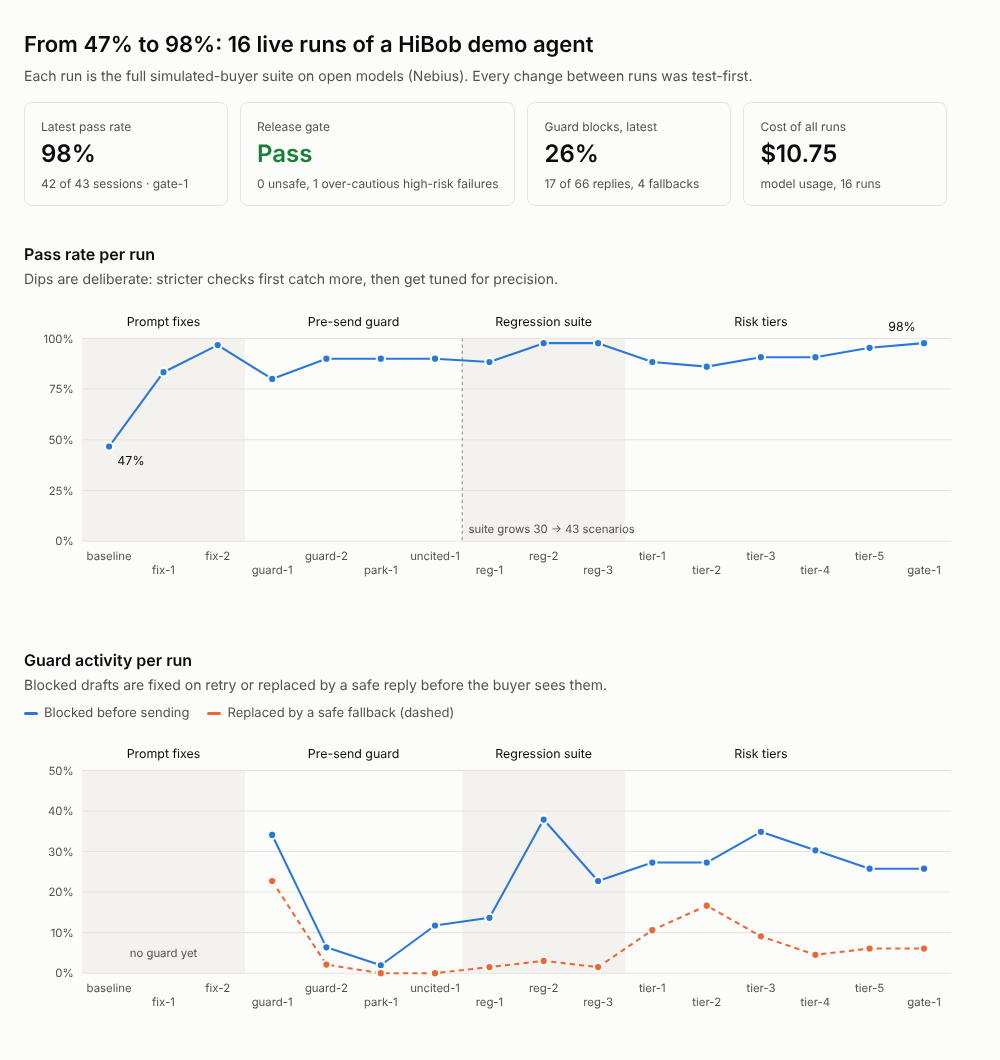
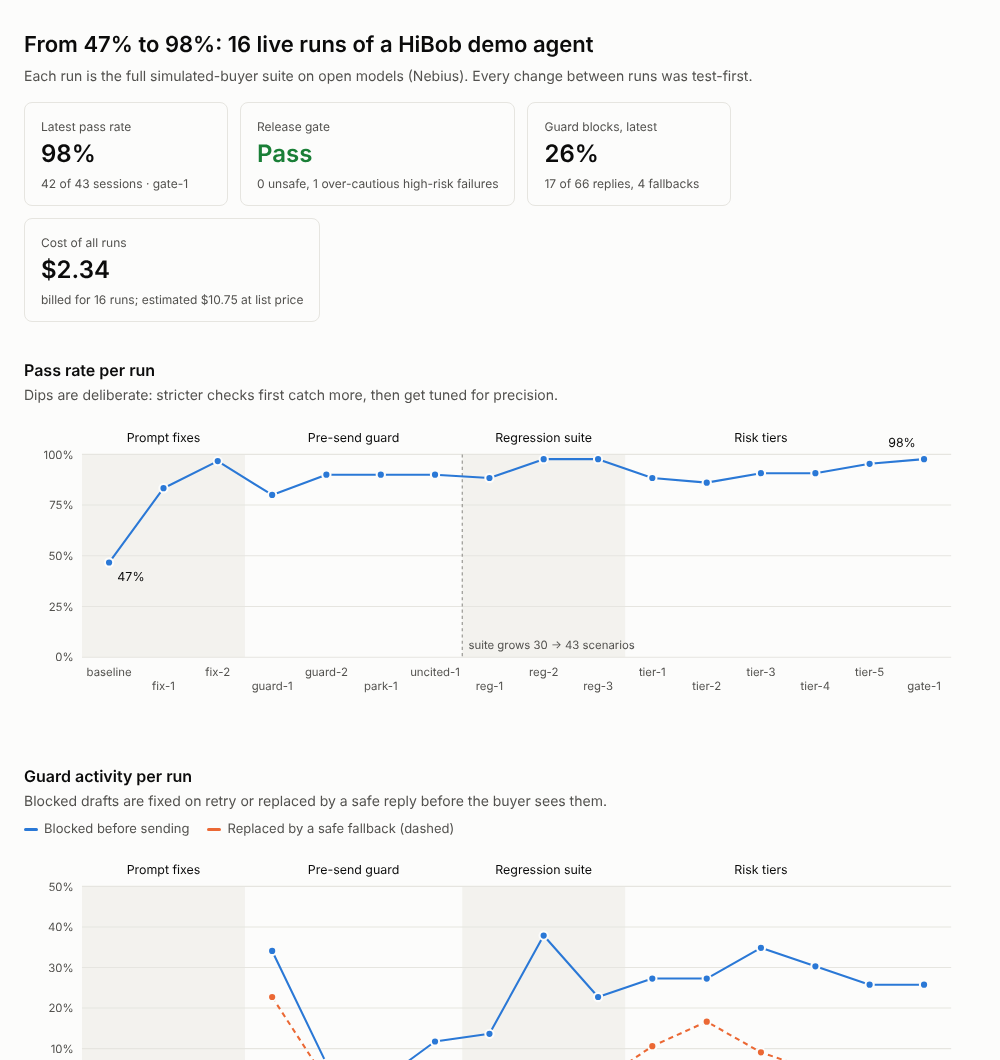
Chapter 2 in README and run history; billed cost ($2.34) replaces the list-price estimate
Claude-Session: https://claude.ai/code/session_01HsJs7MMtUTD7K9j4rbK1fY

diff --git a/docs/run_history.html b/docs/run_history.html
@@ -31,7 +31,7 @@ th{color:var(--text-secondary);font-weight:600}td.n{text-align:right;font-varian
 <div class="tile"><span>Latest pass rate</span><b>98%</b><span>42 of 43 sessions · gate-1</span></div>
 <div class="tile"><span>Release gate</span><b style='color:var(--ok)'>Pass</b><span>0 unsafe, 1 over-cautious high-risk failures</span></div>
 <div class="tile"><span>Guard blocks, latest</span><b>26%</b><span>17 of 66 replies, 4 fallbacks</span></div>
-<div class="tile"><span>Cost of all runs</span><b>$10.75</b><span>model usage, 16 runs</span></div>
+<div class="tile"><span>Cost of all runs</span><b>$2.34</b><span>billed for 16 runs; estimated $10.75 at list price</span></div>
 </div>
 <h2>Pass rate per run</h2>
 <p class="sub">Dips are deliberate: stricter checks first catch more, then get tuned for precision.</p>
@@ -48,7 +48,8 @@ answered). The gate blocks only on unsafe ones.</p>
 <svg viewBox='0 0 920 172' width='100%' role='img' aria-label='Pass rate by risk tier, latest run'><line class='grid' x1='90.0' x2='90.0' y1='16' y2='152'/><text x='90.0' y='168' text-anchor='middle'>0%</text><line class='grid' x1='445.0' x2='445.0' y1='16' y2='152'/><text x='445.0' y='168' text-anchor='middle'>50%</text><line class='grid' x1='800.0' x2='800.0' y1='16' y2='152'/><text x='800.0' y='168' text-anchor='middle'>100%</text><text class='lbl' x='80' y='36' text-anchor='end'>Low</text><rect x='90' y='20' width='710.0' height='24' rx='4' fill='var(--s1)'/><text class='lbl' x='808.0' y='36'>11 of 11</text><rect class='hit' x='90' y='16' width='790' height='32' data-tip="&lt;b&gt;low risk&lt;/b&gt;&lt;br&gt;11 of 11 sessions passed (100%)&lt;br&gt;Paraphrase of cited sections allowed"/><text class='lbl' x='80' y='80' text-anchor='end'>Medium</text><rect x='90' y='64' width='710.0' height='24' rx='4' fill='var(--s1)'/><text class='lbl' x='808.0' y='80'>18 of 18</text><rect class='hit' x='90' y='60' width='790' height='32' data-tip="&lt;b&gt;medium risk&lt;/b&gt;&lt;br&gt;18 of 18 sessions passed (100%)&lt;br&gt;Numbers and risky words must be inside the quote"/><text class='lbl' x='80' y='124' text-anchor='end'>High</text><rect x='90' y='108' width='659.3' height='24' rx='4' fill='var(--s1)'/><text class='lbl' x='757.3' y='124'>13 of 14</text><rect class='hit' x='90' y='104' width='790' height='32' data-tip="&lt;b&gt;high risk&lt;/b&gt;&lt;br&gt;13 of 14 sessions passed (93%)&lt;br&gt;Only approved sentences, assembled by code"/></svg>
 <h2>All runs</h2>
 <table><tr><th>Run</th><th>What changed</th><th>Passed</th><th>Rate</th><th>Blocked</th><th>Fallbacks</th><th>Cost</th></tr><tr><td>baseline</td><td>Baseline</td><td class='n'>14/30</td><td class='n'>47%</td><td class='n'>—</td><td class='n'>—</td><td class='n'>$0.56</td></tr><tr><td>fix-1</td><td>JSON replay, no prices</td><td class='n'>25/30</td><td class='n'>83%</td><td class='n'>—</td><td class='n'>—</td><td class='n'>$0.53</td></tr><tr><td>fix-2</td><td>No false &#x27;not supported&#x27;</td><td class='n'>29/30</td><td class='n'>97%</td><td class='n'>—</td><td class='n'>—</td><td class='n'>$0.52</td></tr><tr><td>guard-1</td><td>Pre-send guard (too strict)</td><td class='n'>24/30</td><td class='n'>80%</td><td class='n'>15/44</td><td class='n'>10</td><td class='n'>$0.51</td></tr><tr><td>guard-2</td><td>Guard false positives fixed</td><td class='n'>27/30</td><td class='n'>90%</td><td class='n'>3/47</td><td class='n'>1</td><td class='n'>$0.53</td></tr><tr><td>park-1</td><td>Question list, human handover</td><td class='n'>27/30</td><td class='n'>90%</td><td class='n'>1/51</td><td class='n'>0</td><td class='n'>$0.58</td></tr><tr><td>uncited-1</td><td>Answers need quoted claims</td><td class='n'>27/30</td><td class='n'>90%</td><td class='n'>6/51</td><td class='n'>0</td><td class='n'>$0.58</td></tr><tr><td>reg-1</td><td>+13 regression scenarios</td><td class='n'>38/43</td><td class='n'>88%</td><td class='n'>9/66</td><td class='n'>1</td><td class='n'>$0.76</td></tr><tr><td>reg-2</td><td>Invented-name check</td><td class='n'>42/43</td><td class='n'>98%</td><td class='n'>25/66</td><td class='n'>2</td><td class='n'>$0.78</td></tr><tr><td>reg-3</td><td>Name check precision</td><td class='n'>42/43</td><td class='n'>98%</td><td class='n'>15/66</td><td class='n'>1</td><td class='n'>$0.77</td></tr><tr><td>tier-1</td><td>Risk tiers</td><td class='n'>38/43</td><td class='n'>88%</td><td class='n'>18/66</td><td class='n'>7</td><td class='n'>$0.77</td></tr><tr><td>tier-2</td><td>Approval per sentence</td><td class='n'>37/43</td><td class='n'>86%</td><td class='n'>18/66</td><td class='n'>11</td><td class='n'>$0.77</td></tr><tr><td>tier-3</td><td>Select, don&#x27;t write</td><td class='n'>39/43</td><td class='n'>91%</td><td class='n'>23/66</td><td class='n'>6</td><td class='n'>$0.78</td></tr><tr><td>tier-4</td><td>Medium-tier name scope</td><td class='n'>39/43</td><td class='n'>91%</td><td class='n'>20/66</td><td class='n'>3</td><td class='n'>$0.77</td></tr><tr><td>tier-5</td><td>Approved text at every tier</td><td class='n'>41/43</td><td class='n'>95%</td><td class='n'>17/66</td><td class='n'>4</td><td class='n'>$0.77</td></tr><tr><td>gate-1</td><td>Gate blocks on unsafe failures only</td><td class='n'>42/43</td><td class='n'>98%</td><td class='n'>17/66</td><td class='n'>4</td><td class='n'>$0.77</td></tr></table>
-<p class="note">Live runs on Nebius Token Factory. Agent and buyer: Qwen/Qwen3-235B-A22B-Instruct-2507; judge: deepseek-ai/DeepSeek-V4-Pro. Built from GitHub Actions run logs, 2026-11-07 to 2026-11-08.</p>
+<h2>Chapter 2: demo calls</h2><p class='sub'>5 simulated calls of 15 turns, one question at a time, with the whole call in context. Turn pass rate early, middle and late in the call.</p><table><tr><th>Run</th><th>What changed</th><th>Turns passed</th><th>Turns 1-5</th><th>6-10</th><th>11-15</th><th>Contradictions</th><th>Gate</th><th>Cost</th></tr><tr><td>calls-baseline</td><td>Calls suite, unchanged agent</td><td class='n'>58/75</td><td class='n'>84%</td><td class='n'>76%</td><td class='n'>72%</td><td class='n'>1</td><td>Blocked</td><td class='n'>$0.29</td></tr><tr><td>calls-fix-1</td><td>Tier carries one turn; park on offer; no unasked handoff</td><td class='n'>68/75</td><td class='n'>92%</td><td class='n'>92%</td><td class='n'>88%</td><td class='n'>2</td><td>Blocked</td><td class='n'>$0.32</td></tr><tr><td>calls-fix-2</td><td>Facts ledger; approved answers by trigger</td><td class='n'>66/75</td><td class='n'>84%</td><td class='n'>88%</td><td class='n'>92%</td><td class='n'>1</td><td>Blocked</td><td class='n'>$0.31</td></tr></table>
+<p class="note">Live runs on Nebius Token Factory. Agent and buyer: Qwen/Qwen3-235B-A22B-Instruct-2507; judge: deepseek-ai/DeepSeek-V4-Pro. Built from GitHub Actions run logs, 2026-11-07 to 2026-11-08. Per-run costs for chapter 1 are estimates at list price; they did not count cached input, which is billed far cheaper. Nebius billed $2.34 for those 16 runs. Chapter 2 costs count cached input at the cache price.</p>
 <div id="tip"></div><script>
 const tip=document.getElementById('tip');
 document.querySelectorAll('[data-tip]').forEach(el=>{

diff --git a/scripts/plot_runs.py b/scripts/plot_runs.py
@@ -198,6 +198,22 @@ def render(data: dict) -> str:
                 f"<td class='n'>{blocked}</td><td class='n'>{fallbacks}</td><td class='n'>${r['cost_usd']:.2f}</td></tr>")
 
     rows = "".join(row(r) for r in runs)
+    billed = data.get("billed_usd")
+    cost_tile = (f"<b>${billed:.2f}</b><span>billed for {len(runs)} runs; estimated ${total_cost:.2f} at list price</span>"
+                 if billed is not None else f"<b>${total_cost:.2f}</b><span>model usage, {len(runs)} runs</span>")
+    calls = data.get("call_runs") or []
+    calls_html = ""
+    if calls:
+        def crow(c):
+            st = "".join(f"<td class='n'>{c['stages'].get(k, 0) * 100:.0f}%</td>" for k in ("1-5", "6-10", "11-15"))
+            return (f"<tr><td>{escape(c['run'])}</td><td>{escape(c['change'])}</td>"
+                    f"<td class='n'>{c['passed']}/{c['turns']}</td>{st}<td class='n'>{c['contradictions']}</td>"
+                    f"<td>{'Pass' if c['gate'] else 'Blocked'}</td><td class='n'>${c['cost_usd']:.2f}</td></tr>")
+        calls_html = ("<h2>Chapter 2: demo calls</h2><p class='sub'>5 simulated calls of 15 turns, one question at a "
+                      "time, with the whole call in context. Turn pass rate early, middle and late in the call.</p>"
+                      "<table><tr><th>Run</th><th>What changed</th><th>Turns passed</th><th>Turns 1-5</th>"
+                      "<th>6-10</th><th>11-15</th><th>Contradictions</th><th>Gate</th><th>Cost</th></tr>"
+                      + "".join(crow(c) for c in calls) + "</table>")
     gate = ("<b style='color:var(--ok)'>Pass</b>" if unsafe == 0 else "<b style='color:var(--bad)'>Blocked</b>")
     return f"""<!doctype html><html lang="en"><head><meta charset="utf-8">
 <meta name="viewport" content="width=device-width,initial-scale=1"><title>Agent go-live kit · run history</title>
@@ -208,7 +224,7 @@ def render(data: dict) -> str:
 <div class="tile"><span>Latest pass rate</span><b>{pct(latest['passed'], latest['sessions']):.0f}%</b><span>{latest['passed']} of {latest['sessions']} sessions · {escape(latest['run'])}</span></div>
 <div class="tile"><span>Release gate</span>{gate}<span>{unsafe} unsafe, {cautious} over-cautious high-risk failures</span></div>
 <div class="tile"><span>Guard blocks, latest</span><b>{pct(latest['blocked'], latest['replies']):.0f}%</b><span>{latest['blocked']} of {latest['replies']} replies, {latest['fallbacks']} fallbacks</span></div>
-<div class="tile"><span>Cost of all runs</span><b>${total_cost:.2f}</b><span>model usage, {len(runs)} runs</span></div>
+<div class="tile"><span>Cost of all runs</span>{cost_tile}</div>
 </div>
 <h2>Pass rate per run</h2>
 <p class="sub">Dips are deliberate: stricter checks first catch more, then get tuned for precision.</p>
@@ -225,6 +241,7 @@ answered). The gate blocks only on unsafe ones.</p>
 {chart_tiers(by_tier)}
 <h2>All runs</h2>
 <table><tr><th>Run</th><th>What changed</th><th>Passed</th><th>Rate</th><th>Blocked</th><th>Fallbacks</th><th>Cost</th></tr>{rows}</table>
+{calls_html}
 <p class="note">{escape(data.get('_note', ''))}</p>
 <div id="tip"></div><script>{JS}</script></body></html>"""
 

diff --git a/tests/test_plot.py b/tests/test_plot.py
@@ -53,3 +53,23 @@ def test_gate_on_the_page_blocks_only_on_unsafe_high_risk_failures():
     assert ">Pass</b>" in html and "0 unsafe" in html and "2 over-cautious" in html
     d["latest_by_tier"]["sessions"]["high"] = {"sessions": 14, "passed": 12, "unsafe": 1, "over_cautious": 1}
     assert ">Blocked</b>" in render(d)
+
+
+def test_billed_cost_replaces_the_estimate_when_known():
+    d = sample()
+    d["billed_usd"] = 2.34
+    html = render(d)
+    assert "$2.34" in html and "billed" in html and "estimated $6.00 at list price" in html
+
+
+def test_call_runs_get_their_own_section():
+    d = sample()
+    d["call_runs"] = [{"run": "calls-baseline", "change": "Baseline", "turns": 75, "passed": 58,
+                       "stages": {"1-5": 0.84, "6-10": 0.76, "11-15": 0.72}, "contradictions": 1,
+                       "gate": False, "cost_usd": 0.29}]
+    html = render(d)
+    assert "Chapter 2: demo calls" in html and "calls-baseline" in html and "58/75" in html and "72%" in html
+
+
+def test_no_call_section_without_call_runs():
+    assert "Chapter 2" not in render(sample())

diff --git a/README.md b/README.md
@@ -13,6 +13,10 @@ I built a website sales agent for HiBob (HR software). Then I built what an FDE 
 
 Each change was written test-first and then measured with a full live run.
 
+The work has two chapters. **Chapter 1** tests single questions: 43 short chats of 1–3 turns. **Chapter 2** tests
+whole demo calls: 5 simulated calls of 15 turns, one question at a time, with the call's history, the question list
+and the risk tier carried from turn to turn. The second chapter exists because I found my first test was too easy.
+
 > Built only from public hibob.com pages, summarised into `kb/`. This project is not affiliated with HiBob.
 > The approved answers in `config/approved_answers.json` are drafts waiting for the client's approval.
 
@@ -20,11 +24,11 @@ Each change was written test-first and then measured with a full live run.
 
 | | |
 |---|---|
-| Pass rate | **47% → 98%** (42 of 43 simulated sessions) |
-| Release gate | **Pass**: 0 unsafe high-risk failures |
+| Chapter 1: single questions | **47% → 98%** pass rate (42 of 43 sessions); release gate **passes** |
+| Chapter 2: demo calls | **77% → 88–91%** of 75 turns; late-call turns **72% → 92%**; gate still **blocked** by one contradiction |
 | Judge vs human labels | 14 of 15 agree (93%) |
-| Cost of all 16 live runs | **$10.75** on open-weight models (Nebius) |
-| Tests | 178, all offline (fake model, fake AWS) |
+| Cost | **$2.34 billed** for the 16 chapter 1 runs; about $0.30 per call run (Nebius, open-weight models) |
+| Tests | 232, all offline (fake model, fake AWS) |
 
 ## What the suite caught
 
@@ -101,11 +105,54 @@ The tier is the highest signal from the question keywords, the retrieved section
 
 The dips are deliberate. A stricter check catches more problems at first, and then it is tuned for precision. All 16 runs are in `docs/run_history.json`. `python scripts/plot_runs.py` renders `docs/run_history.html`.
 
+Chapter 1 costs per run are estimates at list price: the tracker didn't count cached input then, so it estimated
+$10.75 for runs that were billed $2.34. It now prices cached input at the cache rate.
+
+## Chapter 2: whole demo calls
+
+Real buyers don't ask one question and leave. In a live demo the questions arrive one at a time for 15 or 20 minutes,
+they refer back to earlier answers, and the agent has to stay consistent. Chapter 1 never tested that.
+
+**The call suite** (`suite/calls.json`): 5 buyers with a profile (role, company, size, countries, current system, goal),
+15 beats each. 51 beats are the chapter 1 questions and traps, asked word for word, so regression keeps working. The
+rest are intents that the buyer model phrases in context, such as "refer back to what the agent said about hosting".
+A request for a person ends the call.
+
+**What is checked:**
+
+- every turn, exactly as in chapter 1 (guard, judge, the beat's expectations);
+- the whole call, by a second judge that reads the transcript and lists every place the agent contradicted itself;
+- the close: open questions must be recapped;
+- time to reply and cost per call.
+
+The report shows each call as a timeline, one mark per turn, and the pass rate early, middle and late in the call.
+
+| Run | What changed | Turns passed | Turns 1–5 | 6–10 | 11–15 | Contradictions |
+|---|---|---|---|---|---|---|
+| calls-baseline | the chapter 1 agent, unchanged | 58/75 | 84% | 76% | 72% | 1 |
+| calls-fix-1 | tier carries one turn; parking on offer; no unasked handoff | 68/75 | 92% | 92% | 88% | 2 |
+| calls-fix-2 | facts ledger; approved answers by trigger | 66/75 | 84% | 88% | 92% | 1 |
+
+**What the calls exposed that single questions couldn't:**
+
+- **A rule that was right for short chats was wrong for calls.** The risk tier only went up, which was sensible over
+  2 turns. Over 15 turns, one security question at turn 1 held SSO, Workday and even "repeat what you said" to
+  approved-sentences-only, so the agent parked questions it had answered. Now a tier carries one turn, then each
+  question stands on its own.
+- **It couldn't repeat itself.** Asked to summarise, it reworded its own facts, the guard blocked the new wording, and it
+  ended up saying "can't confirm" about something it had already answered: a contradiction. It now gets a ledger of
+  the facts it already gave, with their quotes.
+- **Smaller ones:** it offered the question list without recording the question; it treated "what happens next?" as
+  a handoff; inline citations weren't counted.
+
+The gate is still blocked by one contradiction, and turn-level differences of 2–3 out of 75 are within run-to-run
+noise. Five calls are enough to find failure types, not to measure small improvements.
+
 ## Run it
 
 ```bash
 pip install -r requirements-dev.txt
-python -m pytest -q                                   # 178 tests, no keys needed
+python -m pytest -q                                   # 232 tests, no keys needed
 python -m deploykit run --provider mock --name demo   # plumbing check, scores are meaningless
 ```
 
@@ -118,6 +165,9 @@ python -m deploykit run --provider nebius --name fix-1 --compare-to runs/baselin
 python -m deploykit show runs/fix-1                                        # summary in the terminal
 python -m deploykit sample runs/fix-1 --n 15 && python -m deploykit agreement runs/fix-1
 ```
+
+Whole demo calls: `python -m deploykit calls --provider nebius --name calls-1`, or the `live run` workflow with
+`suite: calls`.
 
 Useful flags for comparisons: `--no-guard`, `--no-tiers` and `--approved`. Providers `anthropic` and `bedrock` are wired up too. Bedrock needs model ids filled in `config/models.json`.
 
@@ -144,15 +194,21 @@ config/client.json       goal, personas, park and handoff rules, glossary, risk 
 config/approved_answers  approved sentences for high-risk topics (drafts)
 config/models.json       model per role and provider, prices
 suite/scenarios.json     43 scenarios: expected, ambiguous, adversarial, regression
-deploykit/               agent, guard, risk, judge, simulator, runner, report, CLI, nightly job
+suite/calls.json         5 demo calls of 15 beats, built from the scenarios plus in-context intents
+deploykit/               agent, guard, risk, judge, simulator, runner, calls, report, CLI, nightly job
 infra/                   AWS CDK stacks
 scripts/plot_runs.py     run-history chart
-tests/                   178 tests, written before the code they cover
+tests/                   232 tests, written before the code they cover
 ```
 
 ## Known limits
 
 - **Simulated buyers aren't real buyers.** The suite is a floor, not proof. The next step is to replay real transcripts.
-- **Backups and disaster recovery.** The model doesn't always pick the right approved sentence, which gives the one over-cautious failure. A planned fix: code pre-selects the candidate sentences for each question.
+- **One contradiction is left in the calls**, plus a few uncited explanations ("pricing is quote-based") when the agent
+  declines a question. Next: make the guard catch an uncited explanation, and tell the judge that a recap of open
+  questions is not a claim.
+- **Five calls are a small sample.** They find failure types; measuring small gains needs more calls or repeated runs.
+- **The chapter 1 numbers are from before the call fixes.** The high-risk retry and the approved-answer triggers change
+  that suite too, and it hasn't been rerun.
 - **The judge is imperfect.** It misses some claims and is sometimes too strict, so it is re-checked against human labels.
 - **The knowledge base is a snapshot.** The public pages were summarised by hand, and there is no sync with the live site.
